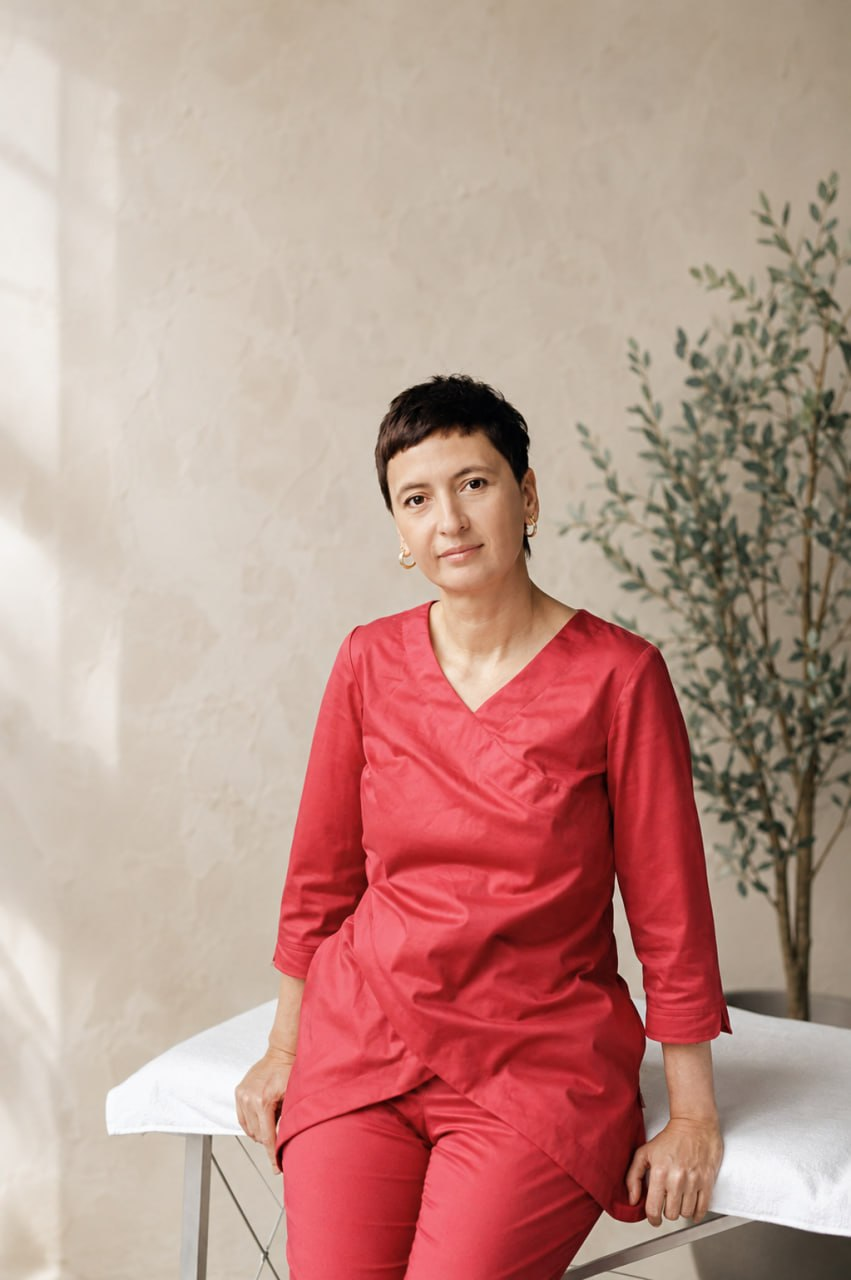
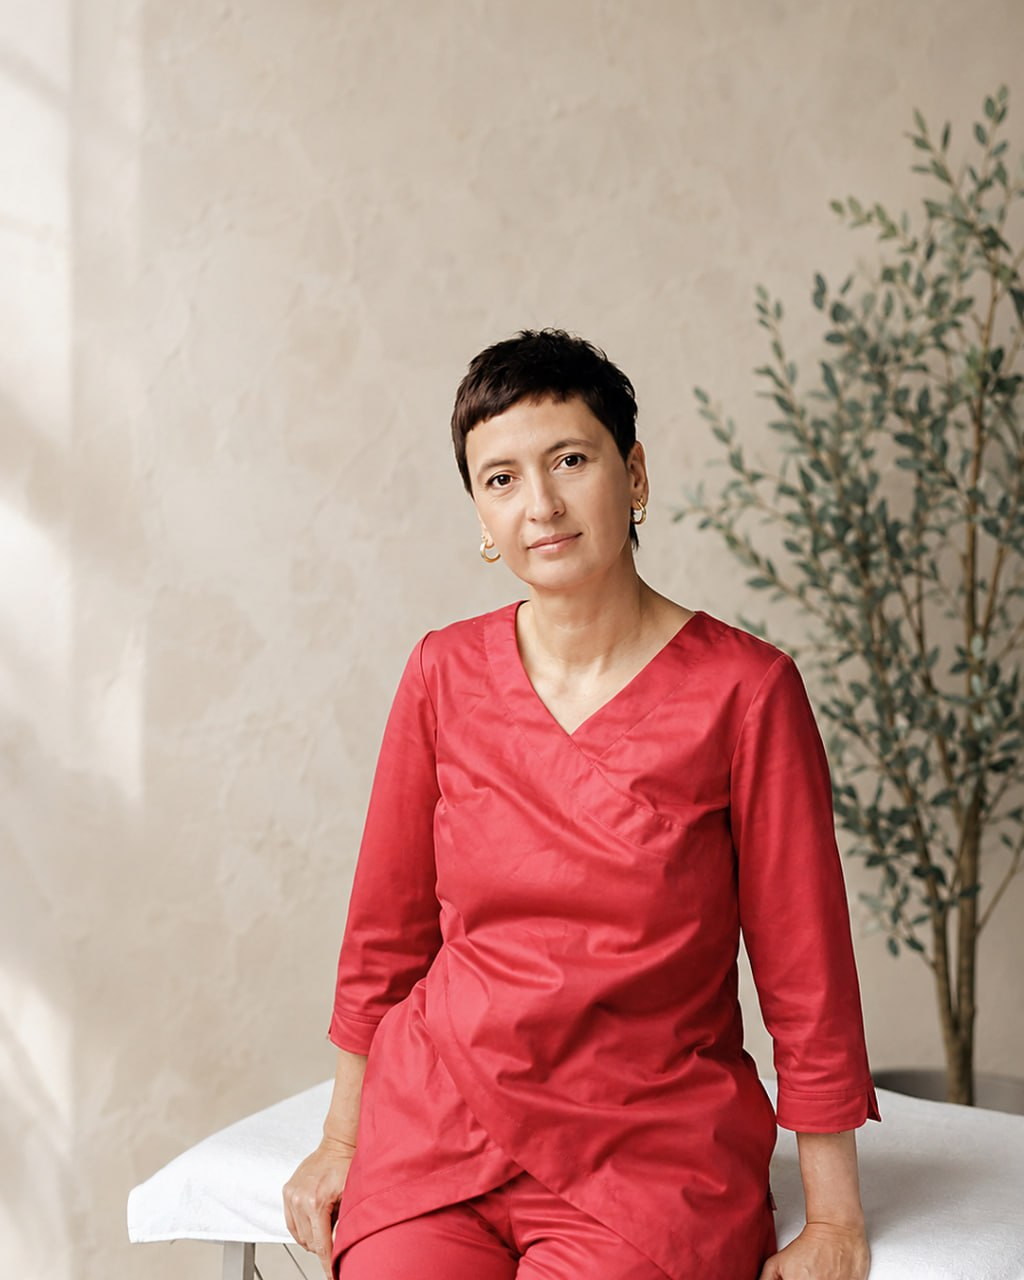
О Мастере: текст слева, 4 фото справа (красная/сертификат/солнце/игра), листья по углам как на рэйки

diff --git a/index.html b/index.html
@@ -136,9 +136,9 @@ h2{font-size:clamp(27px,3.6vw,38px);margin-bottom:44px;max-width:20ch}
 .about p{color:var(--text-body);margin-bottom:18px;max-width:56ch}
 @media (max-width:760px){.about{grid-template-columns:1fr}.about-photo{max-width:320px}}
 
-.master{display:grid;grid-template-columns:300px 1fr;gap:48px;align-items:start}
+.master{display:grid;grid-template-columns:1fr 300px;gap:48px;align-items:start}
 .master-photos{display:grid;gap:20px;position:sticky;top:32px}
-.master-photo-card{border-radius:var(--radius-leaf);overflow:hidden;box-shadow:var(--shadow-soft)}
+.master-photo-card{border-radius:var(--radius-2);overflow:hidden;box-shadow:var(--shadow-soft)}
 .master-photo-card img{width:100%;display:block}
 .master-text p{color:var(--text-body);margin-bottom:20px;max-width:68ch}
 .master-text p:first-child{font-weight:500;font-size:19px;color:var(--text-title)}
@@ -219,14 +219,22 @@ footer a:hover{color:var(--sand-400)}
   </div>
 </header>
 
-<section>
-  <div class="wrap">
+<section style="position:relative;overflow:hidden">
+  <img src="assets/leaf-texture.jpg" alt=""
+    style="position:absolute;left:0;top:0;width:220px;height:420px;object-fit:contain;object-position:left top;
+    mix-blend-mode:multiply;filter:saturate(1.5) contrast(1.08) brightness(.95);
+    -webkit-mask-image:radial-gradient(120% 120% at 0% 0%,rgba(0,0,0,.85) 0%,rgba(0,0,0,.45) 45%,transparent 85%);
+    mask-image:radial-gradient(120% 120% at 0% 0%,rgba(0,0,0,.85) 0%,rgba(0,0,0,.45) 45%,transparent 85%);
+    pointer-events:none">
+  <img src="assets/leaf-texture.jpg" alt=""
+    style="position:absolute;right:0;bottom:0;width:260px;height:520px;object-fit:contain;object-position:right bottom;
+    mix-blend-mode:multiply;filter:saturate(1.5) contrast(1.08) brightness(.95);
+    -webkit-mask-image:radial-gradient(120% 120% at 100% 100%,rgba(0,0,0,.9) 0%,rgba(0,0,0,.5) 45%,transparent 85%);
+    mask-image:radial-gradient(120% 120% at 100% 100%,rgba(0,0,0,.9) 0%,rgba(0,0,0,.5) 45%,transparent 85%);
+    pointer-events:none">
+  <div class="wrap" style="position:relative;z-index:1">
     <h2>О Мастере</h2>
     <div class="master">
-      <div class="master-photos">
-        <div class="master-photo-card"><img src="assets/master-1.jpg" alt="Юлия ОздеМир на сеансе"></div>
-        <div class="master-photo-card"><img src="assets/master-2.jpg" alt="Юлия ОздеМир"></div>
-      </div>
       <div class="master-text">
         <p>«Юля, у меня колено», — говорит человек в начале сеанса.</p>
         <p>Мы начинаем с колена. Оно честно болит, мешает ходить, не даёт спать и требует, чтобы им наконец занялись. А потом в разговоре появляются травма, после которой всё началось, работа без выходных, мать, которой снова нужна помощь, развод, переезд, страх и усталость размером с небольшую страну.</p>
@@ -239,6 +247,12 @@ footer a:hover{color:var(--sand-400)}
         <p>Сейчас я и сама стою на таком переходе: между странами, прежним способом работать и новым двенадцатилетним циклом практики. Поэтому тех, кто оказался где-то между, я узнаю быстро. Я знаю, как выглядит место, где назад уже тесно, а вперёд пока страшно.</p>
         <p>Но если вы пришли с коленом, не волнуйтесь.</p>
         <p>С колена и начнём.</p>
+      </div>
+      <div class="master-photos">
+        <div class="master-photo-card"><img src="assets/master-1.jpg" alt="Юлия ОздеМир в рабочей форме"></div>
+        <div class="master-photo-card"><img src="assets/master-2.jpg" alt="Юлия ОздеМир с сертификатом"></div>
+        <div class="master-photo-card"><img src="assets/master-3.jpg" alt="Юлия ОздеМир"></div>
+        <div class="master-photo-card"><img src="assets/master-4.jpg" alt="Игра «Прикосновение Рэйки» за столом"></div>
       </div>
     </div>
   </div>
